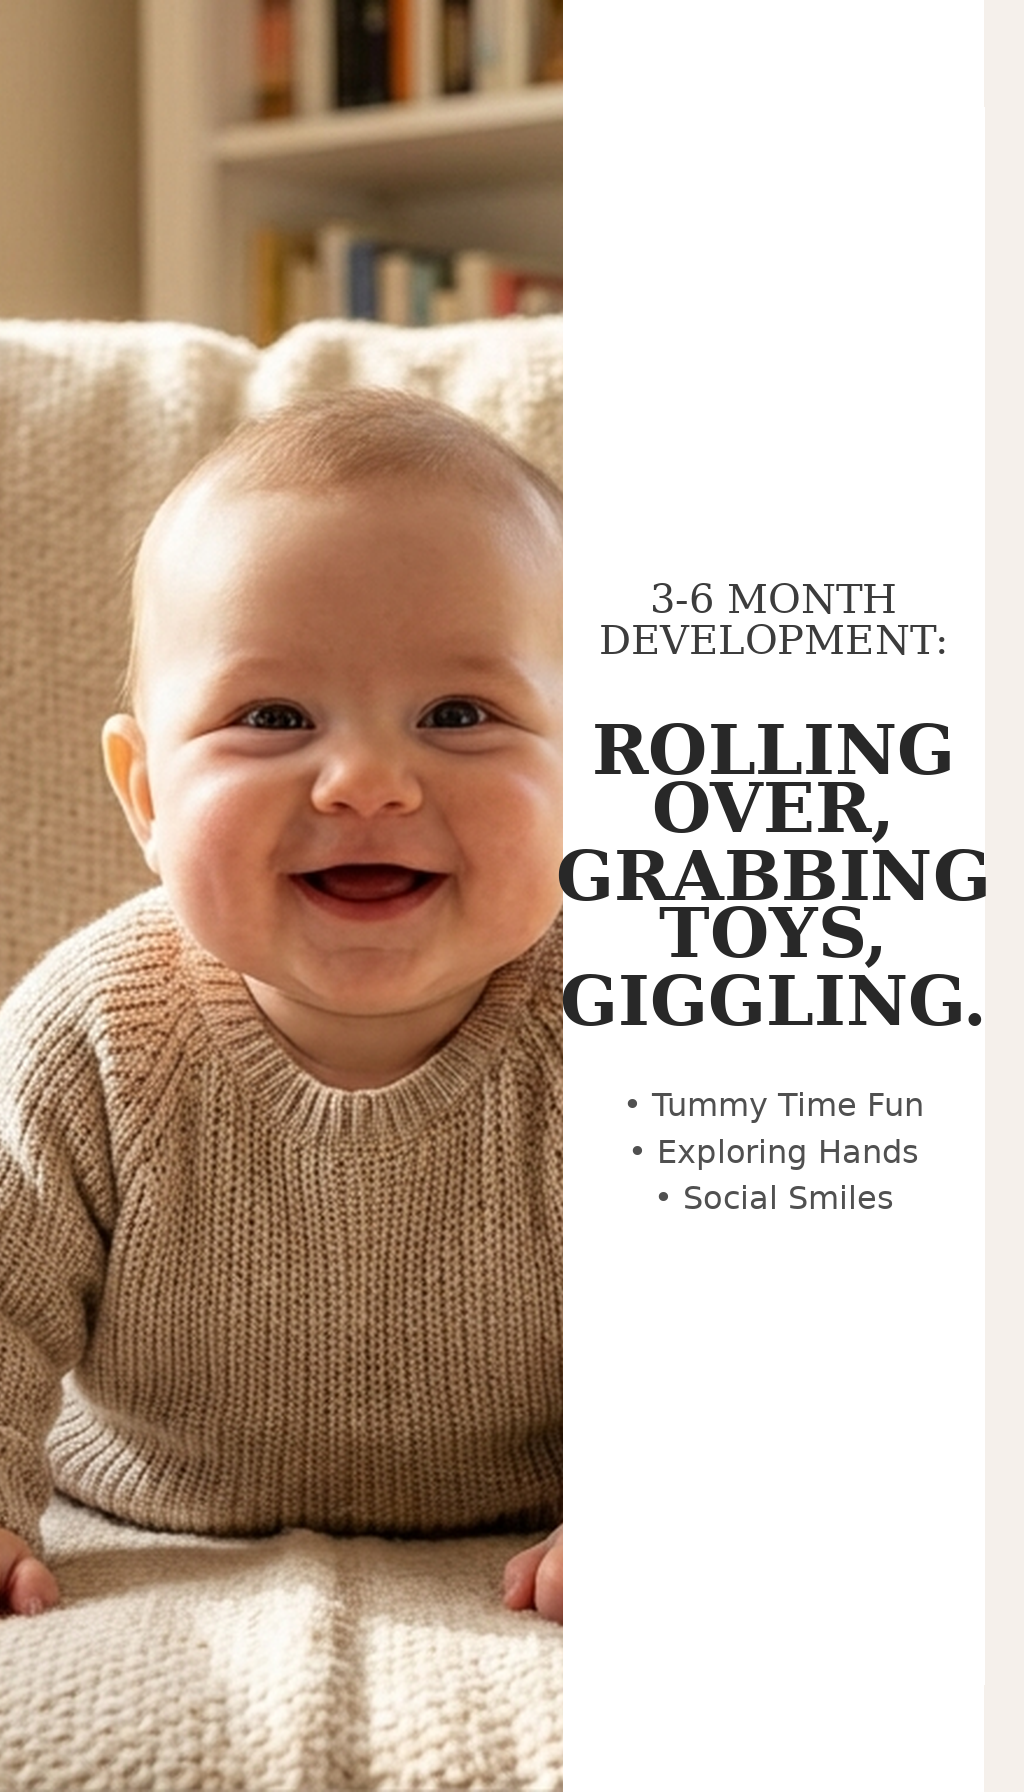
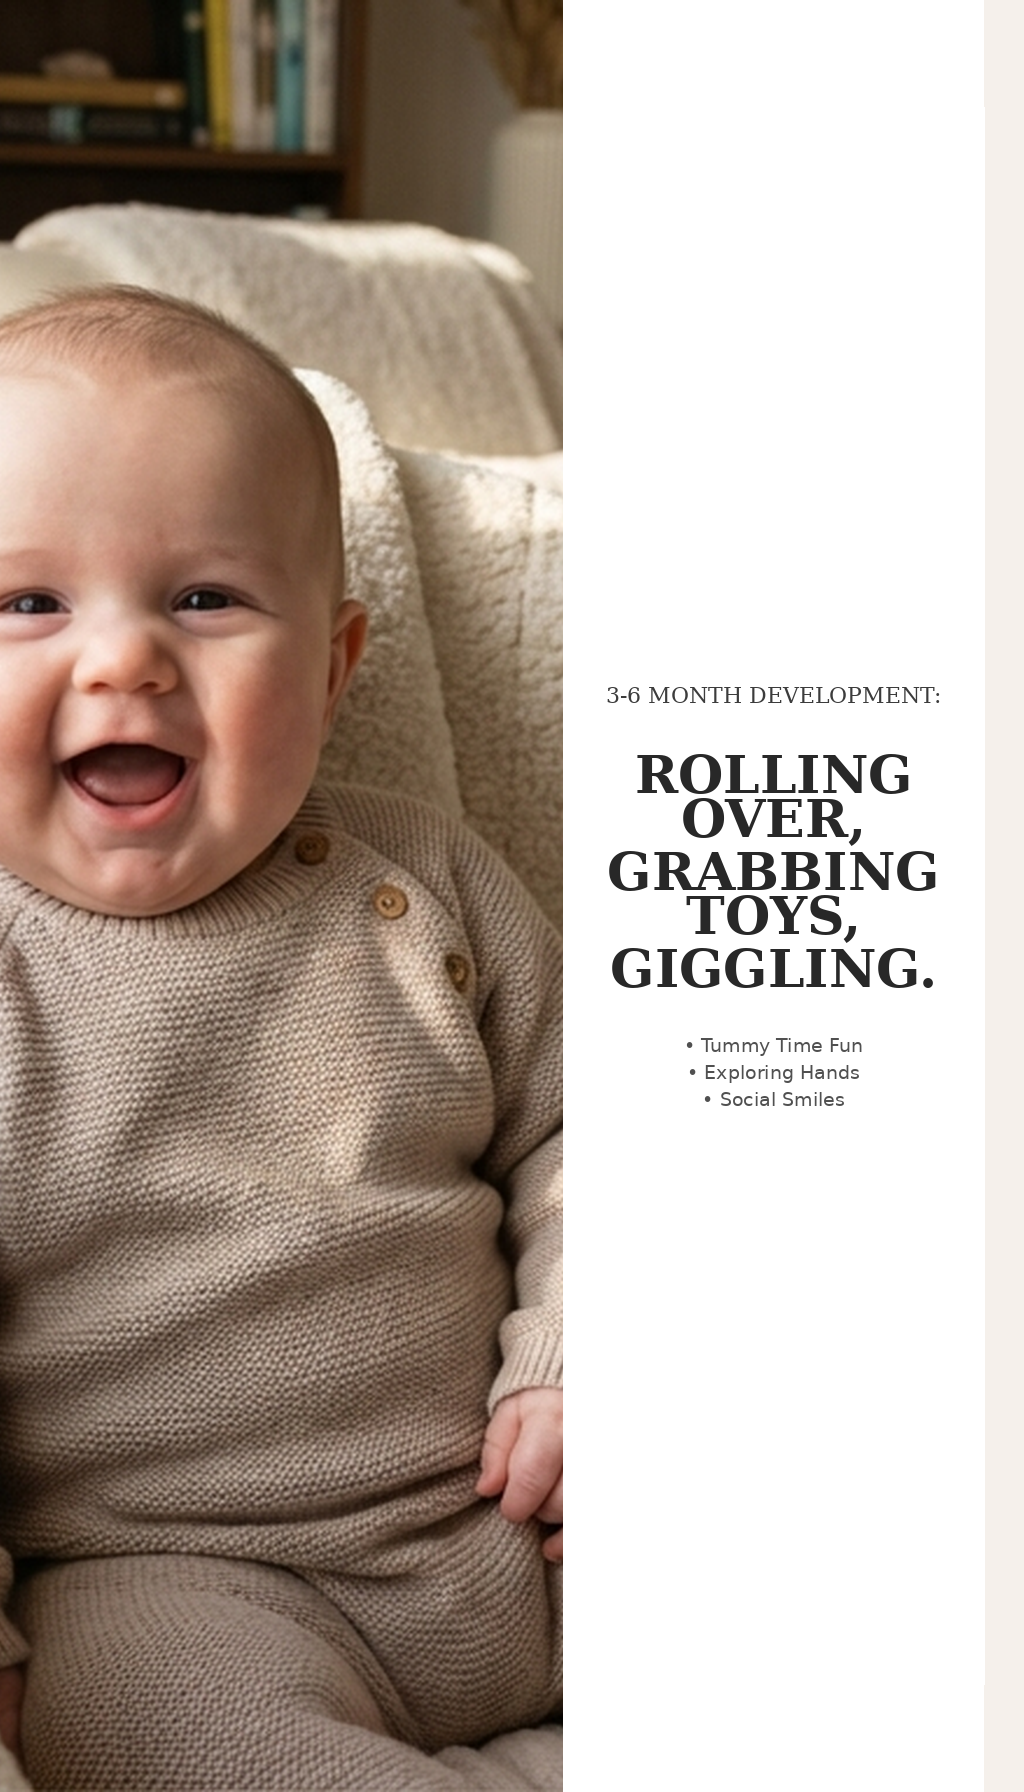
Fix pin text hierarchy: increase headline size and ensure no overflow

diff --git a/scripts/generate_pin.py b/scripts/generate_pin.py
@@ -172,13 +172,19 @@ def main():
         return total_h, t_lines, h_lines, b_items, f_title, f_head, f_bullet, gap1, gap2
 
     # Fit text by scaling down
-    t_sz, h_sz, b_sz = 40, 68, 32 # Slightly smaller starting point for split
+    t_sz, h_sz, b_sz = 36, 82, 32 # Heading (h_sz) is now much larger than title (t_sz)
     if args.layout != "split": 
-        t_sz, h_sz, b_sz = 46, 80, 36
+        t_sz, h_sz, b_sz = 42, 96, 36
         
-    for _ in range(12): # More iterations
+    for _ in range(15): # More iterations for finer fit
         total_h, t_lines, h_lines, b_items, f_t, f_h, f_b, g1, g2 = get_layout(t_sz, h_sz, b_sz)
-        if total_h <= card_h * 0.85: # More breathing room (85% instead of 90%)
+        # Check if any single line overflows the width
+        max_line_w = 0
+        for lines, font in [(t_lines, f_t), (h_lines, f_h)]:
+            for l in lines:
+                max_line_w = max(max_line_w, draw.textlength(l, font=font))
+        
+        if total_h <= card_h * 0.82 and max_line_w <= text_w: # Even more breathing room
             break
         t_sz = int(t_sz * 0.9)
         h_sz = int(h_sz * 0.9)
